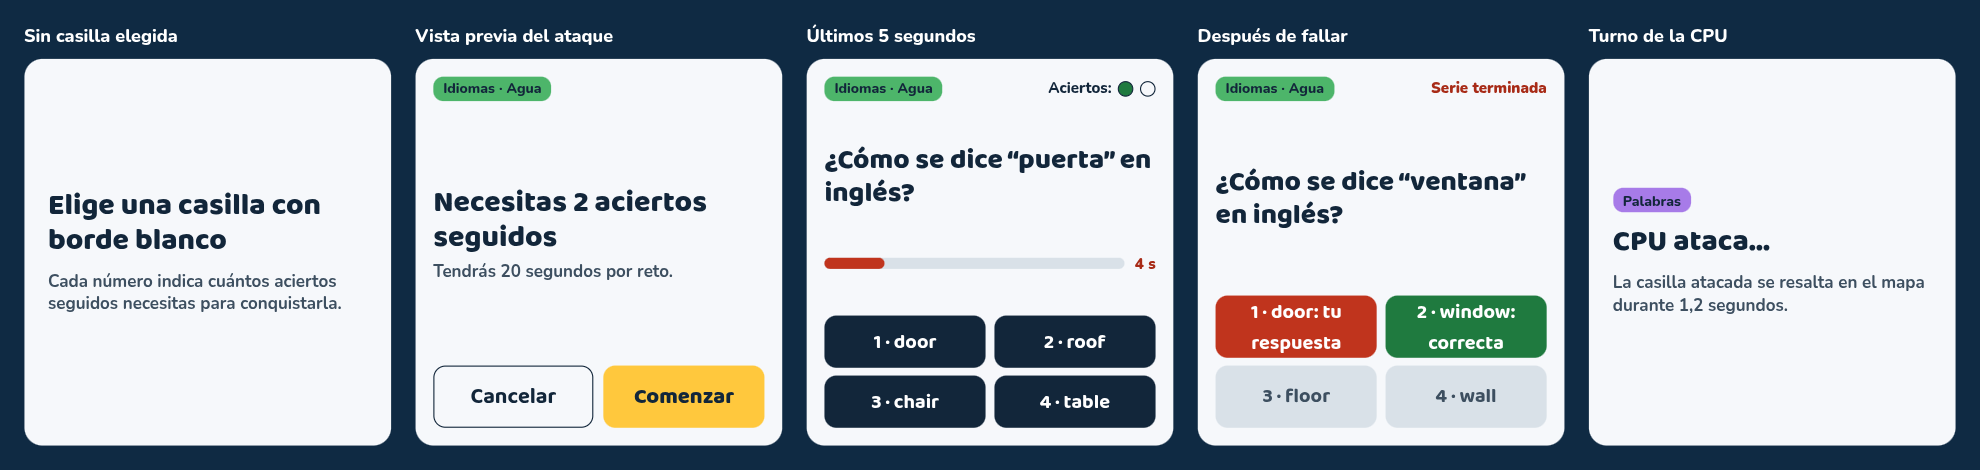
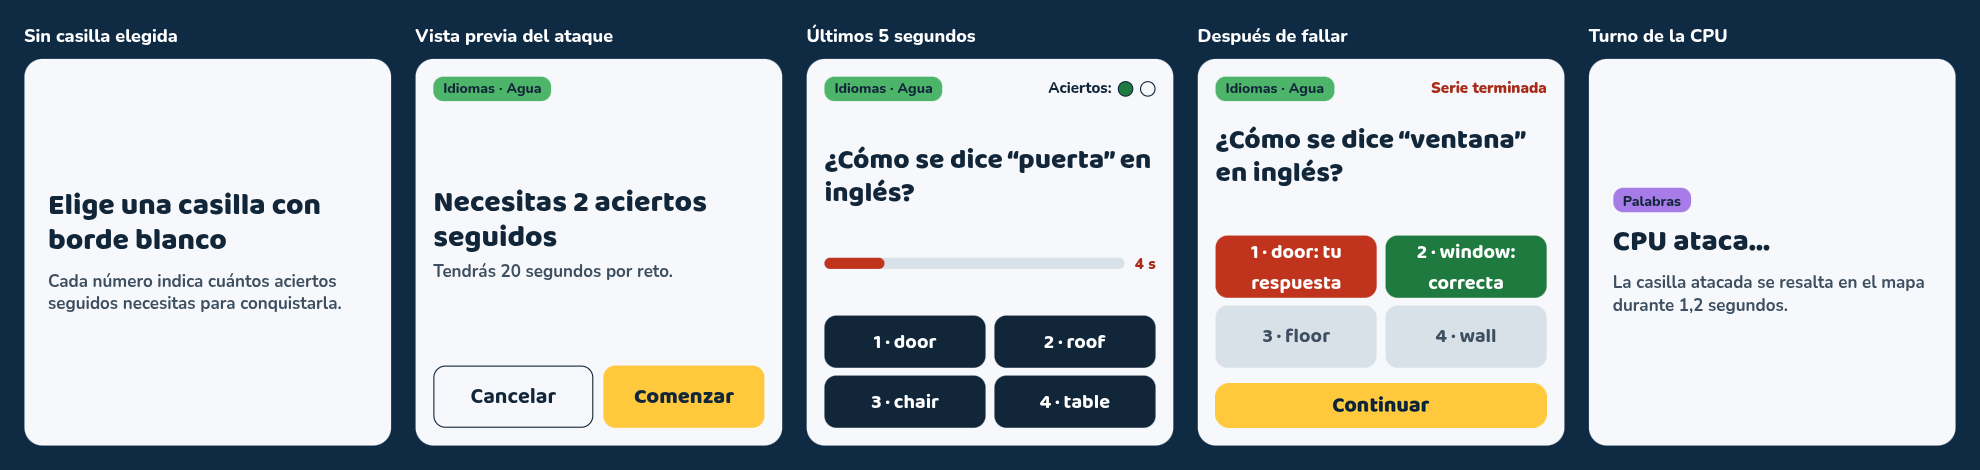
Actualizar la guía técnica de Reinos del Saber con detalles sobre la estructura de preguntas y validaciones

Changed region(s): [[0.6162, 0.2681, 0.801, 0.9234]]

diff --git a/docs/Reinos del Saber guía técnica del equipo.md b/docs/Reinos del Saber guía técnica del equipo.md
@@ -159,7 +159,7 @@ El modelo tiene 20 tipos en 4 paquetes y se puede ejecutar y probar sin abrir la
 
 | Tipo | Atributos | Métodos principales |
 | --- | --- | --- |
-| `Coordenada` (record) | `q`, `r` | `vecinos()`, `distanciaA(otra)` |
+| `Coordenada` (record) | `q`, `r` | `vecinos()` |
 | `Pais` (enum) | `NUMEROS`, `IDIOMAS`, `PALABRAS` | Ninguno |
 | `Terreno` (enum) | `TIERRA(1)`, `AGUA(2)` | `getDefensaBase()` |
 | `Casilla` | `coordenada`, `pais`, `terreno`, `esSede` | `conquistar(pais)`, `getDefensa()` |
@@ -216,7 +216,7 @@ El cambio de turno es directo y no tiene pantalla intermedia, porque ninguna inf
 
 ## Retos y datos
 
-Cada fila de `retos/preguntas.csv` es una pregunta completa, con su enunciado, la respuesta correcta y 3 opciones incorrectas. Todos los temas usan el mismo formato y el mismo código, así que agregar preguntas no requiere programar. El mínimo de contenido es de 20 filas por combinación de país y nivel, es decir, 180 filas en total.
+Cada fila de `retos/preguntas.csv` es una pregunta completa, con su enunciado, la respuesta correcta y 3 opciones incorrectas. Todos los temas usan el mismo formato y el mismo código, así que agregar preguntas no requiere programar. El mínimo de contenido es de 20 filas por combinación de país y nivel, es decir, 180 filas en total, y se completa para la entrega 3.
 
 ```csv
 pais;nivel;enunciado;correcta;incorrecta1;incorrecta2;incorrecta3
@@ -236,9 +236,9 @@ El archivo se lee en UTF-8 y el `;` queda reservado como separador. Los enunciad
 | Al llamar a `agregar(reto)` | Que no exista otra pregunta con el mismo país, nivel y enunciado |
 | Al leer cada línea en `cargar(...)` | Omite el encabezado y las líneas vacías, y recorta los espacios de cada campo; exige 7 campos y valores válidos de `pais` y `nivel`; si una fila falla, el error indica su número de línea |
 | Al terminar `cargar(...)` | Al menos una pregunta para cada una de las 9 combinaciones de país y nivel |
-| En `mvn test` | Una prueba carga el `preguntas.csv` real y exige 20 filas o más por combinación, así que una fila inválida o un tema incompleto rompe la construcción |
+| En `mvn test` | Una prueba carga el `preguntas.csv` real, así que una fila inválida rompe la construcción |
 
-La validación detecta errores de formato, pero no de contenido. Por eso, otra persona del equipo debe revisar cada fila una vez, para comprobar que su nivel sea el adecuado y que ninguna opción incorrecta también sea válida.
+La validación detecta errores de formato, pero no de contenido: quien escribe la fila comprueba que su nivel sea el adecuado y que ninguna opción incorrecta también sea válida.
 
 ### Nivel de dificultad
 
@@ -347,7 +347,7 @@ La entrega 2 exige el modelo con pruebas JUnit y Javadoc, así que cada clase co
 
 | Clase | Casos de prueba |
 | --- | --- |
-| `Coordenada` | Tiene 6 vecinos; la distancia es correcta y simétrica |
+| `Coordenada` | Tiene 6 vecinos |
 | `CargadorMapa` | Carga 81 casillas, 27 por país, 12 de agua y 3 sedes; cada sede está a 5 ataques o más de un enemigo; rechaza símbolos desconocidos |
 | `Mapa` | Todas las casillas forman un solo continente; devuelve adyacentes correctos; `esFrontera` es correcta; `distancia` rodea los huecos del mapa |
 | `Casilla` | La Defensa depende del terreno o la sede; conquistar cambia el país de la casilla |
@@ -359,7 +359,7 @@ La entrega 2 exige el modelo con pruebas JUnit y Javadoc, así que cada clase co
 | `Partida` | Conquistar una sede termina la partida y declara ganador al atacante |
 | `Partida` | `iniciar()` sortea el orden y los países con un generador controlado; los métodos rechazan las llamadas fuera de estado; `ejecutarAccionCPU()` resuelve una acción completa y puede terminar la partida |
 | `EstrategiaAvance` | Prefiere una sede alcanzable; respeta el desempate; avanza hacia la sede rival más próxima; no elige casillas inválidas |
-| `BancoRetos` | Omite el encabezado; rechaza filas mal formadas indicando la línea; rechaza preguntas repetidas; exige las 9 combinaciones de país y nivel; entrega retos del país y nivel pedidos; no entrega la misma pregunta dos veces seguidas; el `preguntas.csv` real carga sin errores y tiene 20 filas o más por combinación |
+| `BancoRetos` | Omite el encabezado; rechaza filas mal formadas indicando la línea; rechaza preguntas repetidas; exige las 9 combinaciones de país y nivel; entrega retos del país y nivel pedidos; no entrega la misma pregunta dos veces seguidas; el `preguntas.csv` real carga sin errores |
 | `ConfiguracionPartida` | Acepta de 1 a 3 humanos con nombre y nivel; rechaza datos incompletos, nombres repetidos y nombres reservados de CPU |
 | `JugadorCPU` | Con un generador aleatorio controlado, acierta o falla según su probabilidad |
 | `Partida` | Atacar rechaza casillas propias o sin frontera con el país del jugador |
@@ -377,7 +377,7 @@ El mayor riesgo está en coordinar la partida con la interfaz, por lo que la má
 | Decisión de la CPU | Media | La distancia hexagonal ignora los huecos del mapa | Calcular la distancia a la sede con BFS sobre las casillas del mapa |
 | Mapa hexagonal | Media | Un error en las filas desplazadas rompe vecinos y frontera | Empezar por `Coordenada` y `Mapa` con JUnit, y hacer pronto el mapa clicable |
 | Actualizar la vista | Media | Cada conquista cambia color, frontera, tamaño, acciones y crecimiento | Un solo método `refrescar()` redibuja desde el estado del modelo |
-| Contenido de las preguntas | Media | Una opción incorrecta también puede ser válida, o una pregunta puede quedar en el nivel equivocado | Aplicar las reglas de nivel y hacer que otra persona revise cada fila; `BancoRetos` valida el formato |
+| Contenido de las preguntas | Media | Una opción incorrecta también puede ser válida, o una pregunta puede quedar en el nivel equivocado | Aplicar las reglas de nivel; `BancoRetos` valida el formato |
 
 El contenido de las 180 filas, el Javadoc de cada miembro, los diagramas y la presentación son poco complejos, pero requieren tiempo. Conviene avanzarlos desde el inicio.
 
@@ -402,7 +402,6 @@ Durante todo el proyecto:
 El enunciado pide un PDF con el nombre y el porqué de su elección, la descripción detallada, el tipo de juego, el número de jugadores, las reglas e imágenes. El tutor decide si el juego es viable.
 
 - [ ] Revisar que la propuesta cubra todos los puntos exigidos.
-- [ ] Actualizar la imagen del panel lateral para que Después de fallar muestre el botón Continuar.
 - [ ] Exportar la propuesta a PDF y comprobar que incluya las 2 imágenes.
 - [ ] Enviar el PDF al tutor.
 - [ ] Instalar el JDK 21 y Maven en cada equipo, siguiendo el README.
@@ -418,7 +417,7 @@ El enunciado pide el código de todas las clases con lógica de negocio, sus pru
 | --- | --- | --- | --- | --- |
 | 1 | Mapa | `Coordenada`, `Pais`, `Terreno`, `Casilla`, `Mapa`, `CargadorMapa`, `mapa.txt` | Base del proyecto | Pasan las pruebas de carga, vecinos, frontera y distancia |
 | 2 | Retos | `Nivel`, `Reto`, `BancoRetos` | `Pais` | Pasan todas las validaciones del banco |
-| 3 | Preguntas | `preguntas.csv` | Formato del paso 2 | Hay 180 filas revisadas por otra persona y la prueba del archivo real pasa |
+| 3 | Preguntas | `preguntas.csv` | Formato del paso 2 | Hay al menos una pregunta por cada combinación de país y nivel, y la prueba del archivo real pasa |
 | 4 | Jugadores y reglas de apoyo | `Jugador`, `JugadorHumano`, `DificultadCPU`, `ConfiguracionPartida`, `TamanoCiudad`, `SerieRetos` | Pasos 1 y 2 | Pasan sus pruebas |
 | 5 | Partida | `EstadoPartida`, `Partida` | Pasos 1, 2 y 4 | Funcionan ataque, series, acciones, turnos y final de partida |
 | 6 | CPU | `EstrategiaCPU`, `EstrategiaAvance`, `JugadorCPU`, `ejecutarAccionCPU()` | Paso 5 | Una partida completa con respuestas simuladas llega a `FINALIZADA` |
@@ -446,7 +445,7 @@ El enunciado pide el código completo del modelo y de la interfaz, sus diagramas
 | 4 | Retos | `PanelRetoView` | Paso 3 | Funcionan los 5 estados del panel, el temporizador, las teclas y la protección contra doble clic |
 | 5 | Turno de la CPU | `PartidaController` | Paso 4 | La CPU juega sus acciones con pausas y sin bloquear la ventana |
 | 6 | Final | `PantallaFinalView` | Paso 5 | Se muestra el ganador y se puede volver a Configuración |
-| 7 | Ajustes | Toda la aplicación | Paso 6 | Se cumplen los criterios de aceptación y se revisaron las probabilidades de la CPU jugando |
+| 7 | Ajustes y preguntas | `preguntas.csv` y toda la aplicación | Paso 6 | Se cumplen los criterios de aceptación y el banco tiene las 180 filas |
 
 Los pasos 3 a 5 concentran los riesgos altos, así que conviene hacerlos primero con una interfaz básica y dejar los detalles visuales para el final.
 
